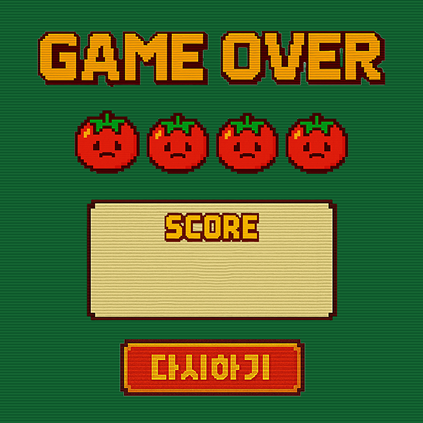
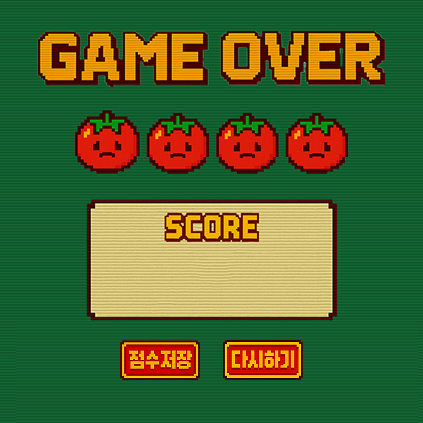
✨ feature: tomato box time, gameover, savescore UI #17

Changed region(s): [[0.2766, 0.7991, 0.7376, 0.9527]]

diff --git a/src/pages/tomato-box/tomato-box.css b/src/pages/tomato-box/tomato-box.css
@@ -37,7 +37,9 @@ body {
 
 .home img,
 .trophy img,
-.start img {
+.start img,
+.savebtn img,
+.retry img {
   cursor: pointer;
 }
 
@@ -81,6 +83,95 @@ body {
 }
 
 .bestscore.hide {
+  transform: translate(-50%, -50%) scale(0);
+  opacity: 0;
+  pointer-events: none;
+}
+
+.result > .timer > .curr {
+  display: block;
+  width: 4%;
+  height: 70%;
+  background: #f7bed1;
+  position: absolute;
+  right: 47px;
+  bottom: 60px;
+  transition: height 1s linear;
+}
+
+.gameover {
+  width: 423px;
+  height: 423px;
+  background: url('/src/assets/images/tomato-img/tomato-gameover.png');
+  background-size: cover;
+  position: absolute;
+  top: 56%;
+  left: 44%;
+  transform: translate(-50%, -50%) scale(0);
+  transition:
+    transform 0.3s ease,
+    opacity 0.3s ease;
+  opacity: 0;
+  pointer-events: none;
+  z-index: 20;
+}
+
+.gameover.show {
+  transform: translate(-50%, -50%) scale(1);
+  opacity: 1;
+  pointer-events: auto;
+}
+
+.gameover.hide {
+  transform: translate(-50%, -50%) scale(0);
+  opacity: 0;
+  pointer-events: none;
+}
+
+.score {
+  display: flex;
+  position: absolute;
+  top: 11px;
+  left: 200px;
+  font-size: 64px;
+  color: #f2af00;
+  text-shadow: 2px 5px #611107;
+
+  /* -webkit-text-stroke: #611107 1px; */
+}
+
+.gameover-buttons {
+  display: flex;
+  position: absolute;
+  gap: 23px;
+  left: 120px;
+  bottom: 41px;
+}
+
+.savescore {
+  width: 423px;
+  height: 423px;
+  background: url('/src/assets/images/tomato-img/tomato-nickname.png') no-repeat;
+  background-size: cover;
+  position: absolute;
+  top: 56%;
+  left: 44%;
+  transform: translate(-50%, -50%) scale(0);
+  transition:
+    transform 0.3s ease,
+    opacity 0.3s ease;
+  opacity: 0;
+  pointer-events: none;
+  z-index: 30;
+}
+
+.savescore.show {
+  transform: translate(-50%, -50%) scale(1);
+  opacity: 1;
+  pointer-events: auto;
+}
+
+.savescore.hide {
   transform: translate(-50%, -50%) scale(0);
   opacity: 0;
   pointer-events: none;

diff --git a/src/pages/tomato-box/tomato-play.ts b/src/pages/tomato-box/tomato-play.ts
@@ -6,9 +6,14 @@ document.addEventListener('DOMContentLoaded', () => {
   const numWidth = canvas.width / cols;
   const numHeight = canvas.height / rows;
 
+  const currTimeBar = document.querySelector('.curr') as HTMLDivElement;
+  const timeLimit = 10;
+  let timeLeft = timeLimit;
+
   const tomatoImage = new Image();
   tomatoImage.src = '/src/assets/images/tomato-img/tomato-empty.png';
 
+  // 랜덤 숫자 생성
   Promise.all([document.fonts.ready, new Promise(resolve => (tomatoImage.onload = resolve))]).then(() => {
     ctx.font = `${numHeight * 0.6}px DungGeunMo`;
     ctx.fillStyle = '#FFD700';
@@ -30,4 +35,53 @@ document.addEventListener('DOMContentLoaded', () => {
       }
     }
   });
+
+  // 시간 제한
+  function startTimer() {
+    const timer = setInterval(() => {
+      timeLeft--;
+
+      const per = (timeLeft / timeLimit) * 70;
+      currTimeBar.style.height = `${per}%`;
+
+      if (timeLeft <= 0) {
+        clearInterval(timer);
+
+        setTimeout(() => {
+          currTimeBar.style.height = `0%`;
+          gameOver();
+        }, 1000);
+      }
+    }, 1000);
+  }
+
+  // 개임 오버
+  function gameOver() {
+    const gameOverScreen = document.querySelector('.gameover') as HTMLDivElement;
+    if (gameOverScreen) {
+      gameOverScreen.classList.add('show');
+    }
+  }
+
+  // 점수확인
+  const saveBtn = document.querySelector('.savebtn');
+  const saveScore = document.querySelector('.savescore') as HTMLElement;
+
+  let isVisible = false;
+
+  saveBtn?.addEventListener('click', () => {
+    saveToggle(saveScore);
+  });
+
+  function saveToggle(saveEl: HTMLElement) {
+    if (!isVisible) {
+      saveEl.classList.remove('hide');
+      saveEl.classList.add('show');
+    } else {
+      saveEl.classList.remove('show');
+      saveEl.classList.add('hide');
+    }
+    isVisible = !isVisible;
+  }
+  startTimer();
 });

diff --git a/src/pages/tomato-box/tomato-play.html b/src/pages/tomato-box/tomato-play.html
@@ -11,6 +11,7 @@
     <div class="bg">
       <div class="wrap">
         <div class="title"><img src="/src/assets/images/tomato-img/tomato-play.png" alt="" /></div>
+
         <!-- main -->
         <div class="overlay">
           <div class="tomatos"></div>
@@ -20,8 +21,18 @@
           </div>
         </div>
         <canvas width="745" height="445"></canvas>
-        <!-- 게임 종료 이후 -->
-        
+
+        <!-- Game Over -->
+        <div class="gameover">
+          <div class="gameover-buttons">
+            <div class="savebtn"><img src="/src/assets/images/tomato-img/tomato-savescore.png" alt="점수확인" class="btn-score" /></div>
+            <div class="retry"><img src="/src/assets/images/tomato-img/tomato-retry.png" alt="다시하기" class="btn-retry" /></div>
+          </div>
+        </div>
+      </div>
+
+      <!-- 점수 저장 -->
+      <div class="savescore"></div>
     </div>
   </body>
 </html>
